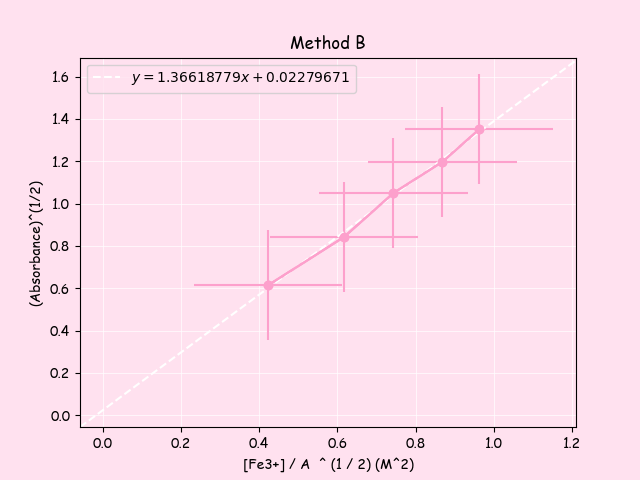
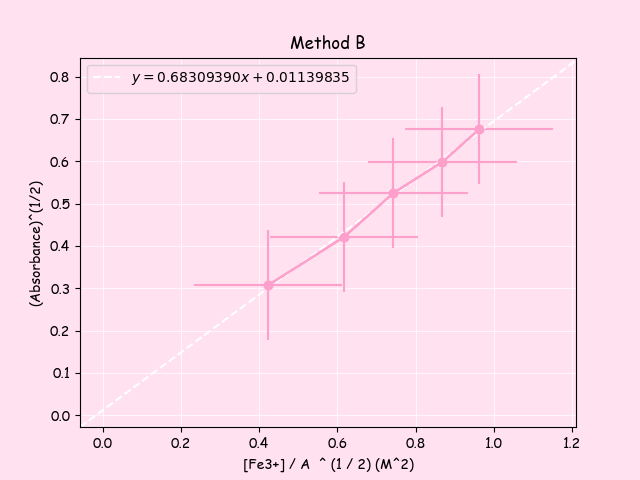
commit? yea im about to commit

diff --git a/part2.py b/part2.py
@@ -3,6 +3,10 @@ import matplotlib.pyplot as plt
 from scipy import stats
 from matplotlib import font_manager
 
+def mM_2_M(conc):
+    results = conc / 1000
+    return results
+
 #assume length is the same for each array
 def common_point(wavelengths, array1, array2):
     i = 0
@@ -225,6 +229,8 @@ while i < len(absorbance):
     data_labels = np.append(data_labels, label, axis = 0)
     i += 1
 
+x_data_ii /= 2 #conc of complex is half of what was added
+
 #plot
 plt.rcParams["font.family"] = "Comic Sans MS"
 plt.rcParams['axes.facecolor'] = "#FFE1EF"
@@ -248,15 +254,13 @@ i = 0
 conc_data_4a = x_data[1:-1] #remove zero conc
 x_data_4a = job_abs[1:-1] #remove abs data for zero conc
 yaxis_4a = []
-xaxis_4a = x_data_4a
+xaxis_4a = x_data_4a 
 for concentration in conc_data_4a:
     y4a = np.array([conc_data_4a[i] * (1.3 - conc_data_4a[i]) / x_data_4a[i]])
     yaxis_4a = np.append(yaxis_4a, y4a, axis = 0)
     i += 1
 #sort data
 xaxis_4a, yaxis_4a = zip(*sorted(zip(xaxis_4a, yaxis_4a)))
-i = 0
-
 #plot
 plt.rcParams["font.family"] = "Comic Sans MS"
 plt.rcParams['axes.facecolor'] = "#FFE1EF"
@@ -278,10 +282,10 @@ R = 8.3145 #J mol^-1 K^-1
 T = 298.15 # K (assume 25 deg)
 ext_coeff_a =  1 / np.sqrt(- m)
 #use point (0, y-intercept) to get values along line of best fit
-stab_const_a = 1 / (1.3 - (ext_coeff_a * (yaxis_4a[0] + (xaxis_4a[0] / (ext_coeff_a ** 2)))))
-Ko_a = 1 * stab_const_a #see eqn 20
+k_a = ((b * ((-m) ** (1 / 2))) - (1.3)) ** (-1)
+Ko_a = 1000 * k_a #see eqn 20, since previous stuff is in mM, multiply by 1000 mM to get unitless
 dGo_a = - R * T * np.log(Ko_a)
-print(f"\nQ4\na)\nMethod A:\nExtinction coefficient: {ext_coeff_a} M^(-1)cm^(-1)\nStability constant: {stab_const_a} M^(-1)\ndG^o = {dGo_a} Jmol^(-1)\n")
+print(f"\nQ4\na)\nMethod A:\nExtinction coefficient: {ext_coeff_a} M^(-1)cm^(-1)\nStability constant: {Ko_a} M^(-1)\ndG^o = {dGo_a} Jmol^(-1)\n")
 
 
 #b
@@ -306,7 +310,7 @@ plt.rcParams["font.family"] = "Comic Sans MS"
 plt.rcParams['axes.facecolor'] = "#FFE1EF"
 plt.figure(facecolor="#FFE1EF")
 plt.plot(xaxis_4b, yaxis_4b, marker = 'o', color = "#fda0cc" )
-xerrb = np.std(xaxis_4b) #multiply by two or nah bc theyre on either side already
+xerrb = np.std(xaxis_4b)
 yerrb = np.std(yaxis_4b)
 plt.errorbar(xaxis_4b, yaxis_4b, xerr = xerrb , yerr = yerrb, color = "#fda0cc")
 m, b, *_ = stats.linregress(xaxis_4b, yaxis_4b)
@@ -320,10 +324,10 @@ plt.grid(color = 'w', linestyle = '-', linewidth = 0.5)
 plt.savefig('part2_q4b.png')
 #get stuff
 ext_coeff_b = 1 / m #extinction coefficient
-stab_const_b = (1 / (b ** 2)) / ext_coeff_b
-Ko_b = 1 * stab_const_b #see eqn 20
+k_b = (1 / (b ** 2)) / ext_coeff_b
+Ko_b = 1000 * k_b #see eqn 20
 dGo_b = - R * T * np.log(Ko_b)
-print(f"\nb)\nMethod B:\nExtinction coefficient: {ext_coeff_b} M^(-1)cm^(-1)\nStability constant: {stab_const_b} M^(-1)\ndG^o = {dGo_b} Jmol^(-1)")
+print(f"\nb)\nMethod B:\nExtinction coefficient: {ext_coeff_b} M^(-1)cm^(-1)\nStability constant: {Ko_b} M^(-1)\ndG^o = {dGo_b} Jmol^(-1)")
     
 ######
 #write data to files
@@ -345,7 +349,7 @@ f.write(str(ext_coeff_a))
 f.close()
 
 f = open("part2_q4_a_stab.txt", "w")
-f.write(str(stab_const_a))
+f.write(str(Ko_a))
 f.close()
 
 f = open("part2_q4_a_gibbs.txt", "w")
@@ -357,7 +361,7 @@ f.write(str(ext_coeff_b))
 f.close()
 
 f = open("part2_q4_b_stab.txt", "w")
-f.write(str(stab_const_b))
+f.write(str(Ko_b))
 f.close()
 
 f = open("part2_q4_b_gibbs.txt", "w")

diff --git a/main.tex b/main.tex
@@ -1,4 +1,4 @@
-% !TEX root = /workspaces/physchem_exp3/main.tex
+
 \documentclass[12pt,a4paper]{article}
 \setlength{\headheight}{14.49998pt}
 \addtolength{\topmargin}{-2.49998pt}
